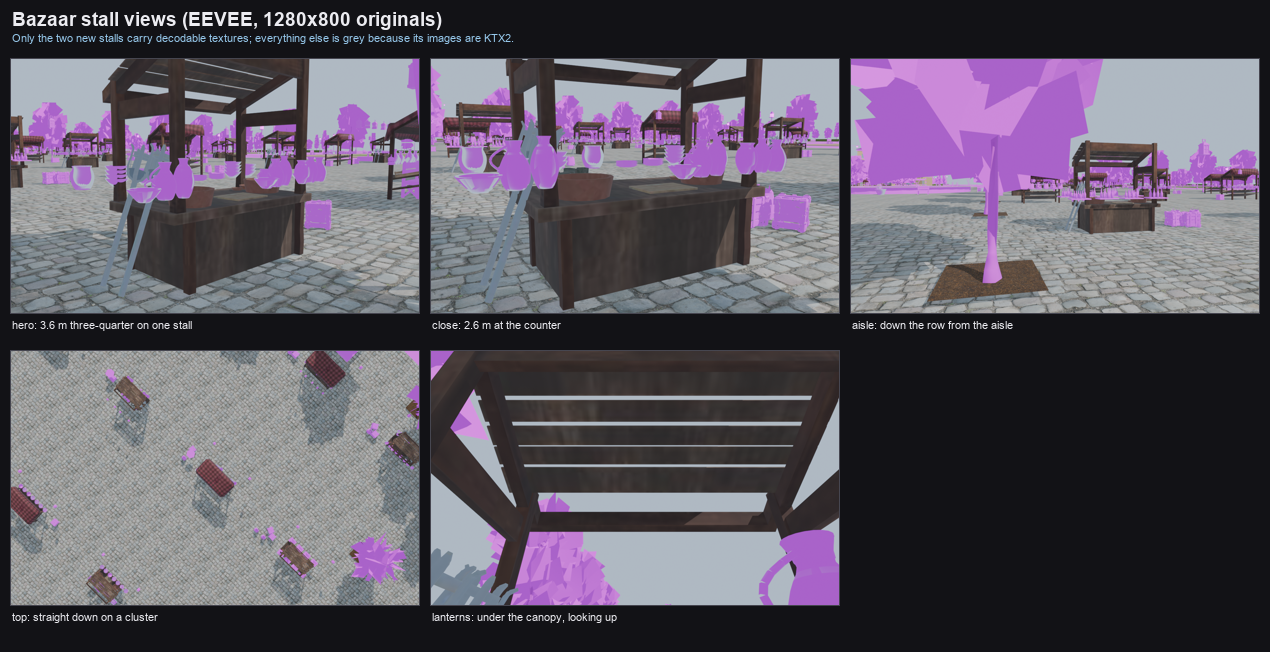
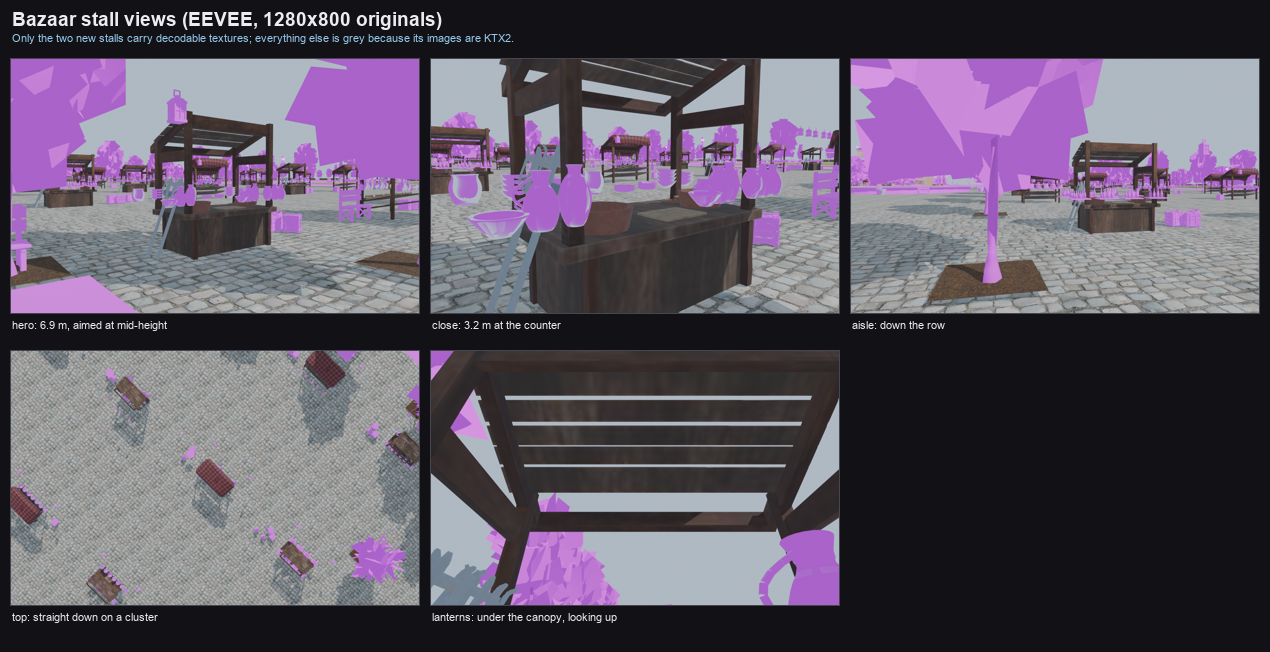
fix(city3): re-aim the hero/close stall cameras and add a frame height map
The first hero camera clipped the canopy: aimed at 1.15 m from an eye height of 1.65 m it
pitched down 8 deg, and a 2.72 m stall at 3.6 m then needs ~27 deg of half-FOV against the
19.4 deg a 32 mm lens gives. Row 0 of the new `--heights` map opened with '^' (geometry
above 2.3 m touching the frame edge) and the bottom two thirds of the frame was empty
plaza. Re-aimed at 1.50 m, pulled back to 6.9 m and widened to 28 mm: sky is visible above
the canopy, nothing clips.

`close` moved from 30 mm at 3.1 m (68 cells, canopy touching the top edge) to 26 mm at
3.2 m aimed at 1.30 m, which is now the detail shot: 81 of 209 cells at 1.9-4.2 m covering
canopy, posts, counter and goods.

`--heights` is the diagnostic that found this: it prints the frame as height bands
(^ >2.3 m, = 1.55-2.3, - 0.75-1.55, . 0.3-0.75, ',' ground, space sky) by ray-casting a
96x27 grid. It is the reason a framing fault is visible without an image viewer, and it
complements --probe, which names the objects rather than their heights.

Both views re-rendered in EEVEE (1280x800) and the contact sheet rebuilt.

Changed region(s): [[0.0, 0.092, 0.6756, 0.5215], [0.737, 0.4908, 0.7984, 0.5215]]

diff --git a/tools/city3/bazaar_views.py b/tools/city3/bazaar_views.py
@@ -34,7 +34,7 @@ for a in _pos:                       # first positional may be the GLB, then the
         OUT = a
 WANT = [a for a in ARGS if a in ("aisle", "hero", "close", "top", "lanterns")]
 if not WANT:
-    WANT = ["hero", "close", "pair", "aisle", "quad", "wide", "lanterns"]
+    WANT = ["hero", "close", "aisle", "top", "lanterns"]
 ENGINE = os.environ.get("ENGINE", "BLENDER_EEVEE")
 RESX = int(os.environ.get("RESX", 1280))
 RESY = int(os.environ.get("RESY", 800))
@@ -51,9 +51,9 @@ VIEWS = {
     "aisle": ((13.4, 1.65, 50.0), (20.0, 1.35, 22.0), 24),
     # 3.6 m three-quarter on one stall: the composition the probe liked best (stall 56
     # of 209 cells at 3.5-5.8 m, no tree or pot inside 3 m)
-    "hero": ((13.9, 1.65, 57.4), (17.3, 1.15, 53.9), 32),
+    "hero": ((12.9, 1.70, 59.4), (17.2, 1.50, 54.0), 28),
     # right at one stall's counter
-    "close": ((15.4, 1.55, 57.2), (17.3, 1.00, 53.8), 30),
+    "close": ((15.2, 1.60, 56.4), (17.2, 1.30, 53.9), 26),
     # above the south-east quadrant, 45 degrees down
     "top": ((26.0, 46.0, 42.0), (26.01, 0.0, 42.01), 50),
     # looking up at the lanterns under a canopy
@@ -111,6 +111,41 @@ def probe(views):
                   f"  hit y {min(ys):4.2f}..{max(ys):4.2f}")
 
 
+def heights(views, cols=96, rows=27):
+    """Print each camera's frame as a height-band map: the text version of a picture.
+
+    This is what caught the framing fault in the first `hero` camera: aimed at 1.15 m
+    from 1.65 m, a 2.72 m stall at 3.6 m needs 19.4 deg of half-FOV and got pitched
+    down 8 deg, so the canopy was clipped at row 0 and the bottom two thirds of the
+    frame was empty plaza. Reading the map shows that in one screen; a thumbnail shows
+    'a grey stall somewhere'.
+    """
+    depsgraph = bpy.context.evaluated_depsgraph_get()
+    s = bpy.context.scene
+    band = [(2.30, "^"), (1.55, "="), (0.75, "-"), (0.30, ".")]
+    for name in views:
+        loc, tgt, lens = VIEWS[name]
+        cam = to_blender(*loc)
+        rot = (to_blender(*tgt) - cam).to_track_quat("-Z", "Y")
+        hx = 18.0 / lens
+        hy = hx * (RESY / RESX)
+        right, up, fwd = rot @ Vector((1, 0, 0)), rot @ Vector((0, 1, 0)), rot @ Vector((0, 0, -1))
+        print(f"\n=== {name}  {loc} -> {tgt}  {lens}mm")
+        for j in range(rows):
+            line = ""
+            for i in range(cols):
+                u = (i / (cols - 1) * 2 - 1) * hx
+                v = (1 - j / (rows - 1) * 2) * hy
+                hit, p, _n, _i, _o, _m = s.ray_cast(depsgraph, cam,
+                                                    (fwd + right * u + up * v).normalized())
+                if not hit:
+                    line += " "
+                    continue
+                line += next((ch for lim, ch in band if p.z > lim), ",")
+            print(f"{j:3d} {line}")
+    print("    legend  ^ >2.3 m   = 1.55-2.3   - 0.75-1.55   . 0.3-0.75   , ground   space sky")
+
+
 def main():
     os.makedirs(OUT, exist_ok=True)
     bpy.ops.wm.read_factory_settings(use_empty=True)
@@ -118,6 +153,10 @@ def main():
     if "--probe" in ARGS or os.environ.get("PROBE"):
         bpy.context.view_layer.update()
         probe(WANT)
+        return
+    if "--heights" in ARGS or os.environ.get("HEIGHTS"):
+        bpy.context.view_layer.update()
+        heights(WANT)
         return
     s = bpy.context.scene
     s.render.engine = ENGINE

diff --git a/docs/procedural-city/29-bazaar-stalls.md b/docs/procedural-city/29-bazaar-stalls.md
@@ -120,26 +120,34 @@ deletes triangles should use it instead of calling `rewrite_indices` directly.
 
 ## Looking at them: camera placement
 
-`bazaar_views.py` holds the cameras, and `--probe` prints what each one actually frames
-so a view can be judged without trusting a thumbnail:
+`bazaar_views.py` holds the cameras; `--probe` prints what each one actually frames and
+`--heights` prints the frame as a height-band map, so a view can be judged without
+trusting a thumbnail:
 
 ```bash
 blender -b --python tools/city3/bazaar_views.py -- /tmp/shots hero close
-blender -b --python tools/city3/bazaar_views.py -- --probe          # hit census
+blender -b --python tools/city3/bazaar_views.py -- --probe          # what is in frame
+blender -b --python tools/city3/bazaar_views.py -- --heights        # frame as a map
 ```
 
 ![Bazaar stall views](previews/29-stall-views.png)
 
 | view | camera (glTF m) | lens | what the ray census says |
 |---|---|---|---|
-| `hero` | (13.9, 1.65, 57.4) → (17.3, 1.15, 53.9) | 32 mm | stall fills 56 of 209 cells at 3.5–5.8 m, no tree inside 4 m |
-| `close` | (15.4, 1.55, 57.2) → (17.3, 1.0, 53.8) | 30 mm | stall fills 68 cells at 2.6–4.8 m: counter and goods |
+| `hero` | (12.9, 1.70, 59.4) → (17.2, 1.50, 54.0) | 28 mm | stall 21 cells at 5.7–7.9 m inside the plaza and tree rows: context |
+| `close` | (15.2, 1.60, 56.4) → (17.2, 1.30, 53.9) | 26 mm | stall **81 of 209 cells** at 1.9–4.2 m: canopy, posts, counter, goods |
 | `aisle` | (13.4, 1.65, 50.0) → (20.0, 1.35, 22.0) | 24 mm | one stall at 8–9.5 m down the row; 61 cells of tree canopy |
 | `top` | (26, 46, 42) straight down | 50 mm | three stalls at 45.8–46.4 m, seen past the canopies |
 | `lanterns` | (17, 1.3, 55.4) → (17, 2.7, 53.4) | 22 mm | stall fills 129 cells at 1.3–2.6 m: canopy underside |
 
-Two things the search for these cameras settled, both measured rather than assumed:
+Three things the search for these cameras settled, all measured rather than assumed:
 
+- **A stall does not fit at 3.6 m with a 32 mm lens.** Aimed at 1.15 m from an eye height
+  of 1.65 m the camera pitches down 8°, and a 2.72 m stall then needs ~27° of half-FOV
+  against the 19.4° it has: the canopy clipped at the top edge and the bottom two thirds
+  of the frame was empty plaza. `--heights` shows it instantly — row 0 opens with `^`
+  (geometry above 2.3 m touching the frame edge). Re-aimed at 1.50 m and pulled back to
+  6.9 m, the sky sits above the canopy and nothing clips.
 - **No ground-level wide shot of the bazaar is possible.** The plaza is treed on the
   same 9 m grid as the stalls; every camera further than ~6 m from a stall ends up
   mostly tree canopy (the `wide` and `pair` candidates at 2.4–3.2 m eye height came back
